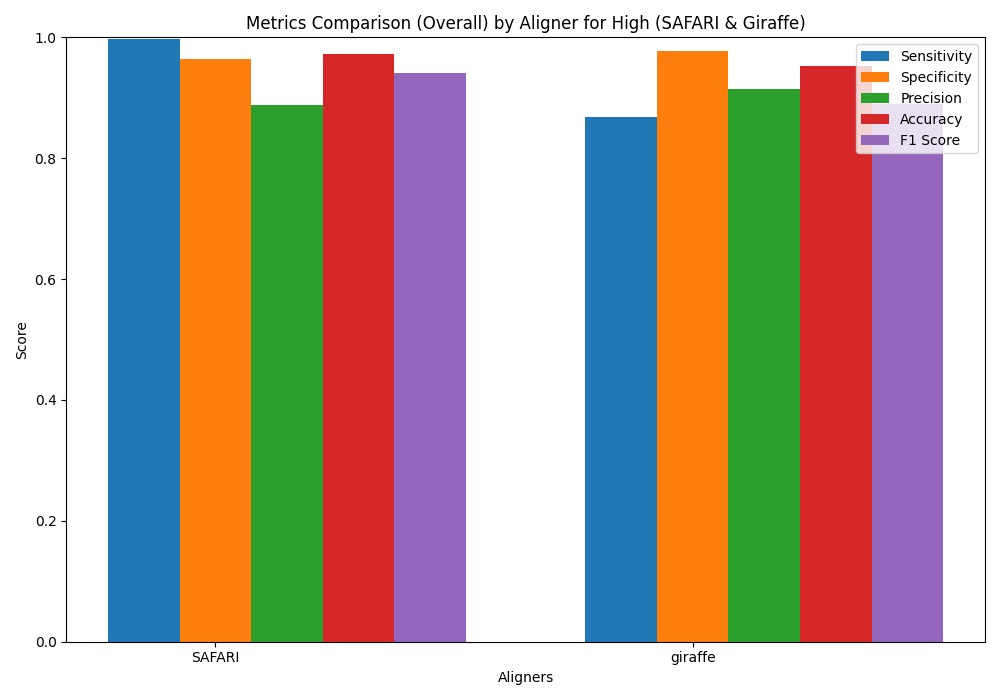
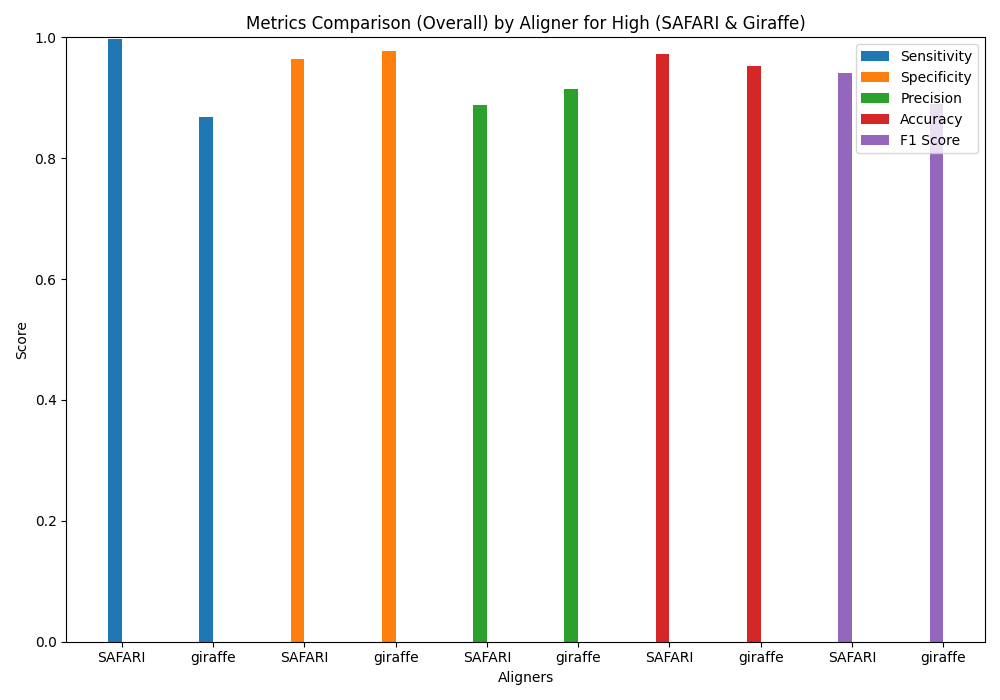
Update

diff --git a/linear_experiment/human_mito/linear_benchmark.py b/linear_experiment/human_mito/linear_benchmark.py
@@ -94,40 +94,34 @@ with open('alignment_stats.csv', 'r') as file:
                 plt.savefig(f"{damage_type}_benchmark.png")
             else:
                 plt.savefig(f"{damage_type}_benchmark_mq30.png")
-            plt.show()
+
 
         # Separate plot for safari and giraffe at high damage
         if damage_type == "High":
-            for metric_type, suffix in [("Overall", ""), ("MQ > 30", "_MQ30")]:
-                data_to_plot = {metric: [] for metric in metrics}
-                special_aligners = ['SAFARI', 'giraffe']
-                
+            data_to_plot = {metric: [] for metric in metrics}
+            special_aligners = ['SAFARI', 'giraffe']
+            
+            for metric in metrics:
                 for aligner in special_aligners:
-                    results = calculate_metrics(summary[damage_type][aligner]["TP" + suffix], summary[damage_type][aligner]["FP" + suffix], summary[damage_type][aligner]["TN" + suffix], summary[damage_type][aligner]["FN" + suffix])
-                    
-                    for metric in metrics:
-                        data_to_plot[metric].append(results[metrics.index(metric)])
-                
-                x = np.arange(len(special_aligners))
-                width = 0.15
-                
-                fig, ax = plt.subplots(figsize=(10, 7))
-                
-                for idx, metric in enumerate(metrics):
-                    ax.bar(x + idx*width, data_to_plot[metric], width, label=metric)
+                    results = calculate_metrics(summary[damage_type][aligner]["TP"], summary[damage_type][aligner]["FP"], summary[damage_type][aligner]["TN"], summary[damage_type][aligner]["FN"])
+                    data_to_plot[metric].append(results[metrics.index(metric)])
+            
+            x = np.arange(len(special_aligners) * len(metrics))
+            width = 0.15
+            
+            fig, ax = plt.subplots(figsize=(10, 7))
+            
+            for idx, metric in enumerate(metrics):
+                ax.bar(x[idx*len(special_aligners):(idx+1)*len(special_aligners)], data_to_plot[metric], width, label=metric)
 
-                ax.set_xlabel('Aligners')
-                ax.set_ylabel('Score')
-                ax.set_title(f'Metrics Comparison ({metric_type}) by Aligner for {damage_type} (SAFARI & Giraffe)')
-                ax.set_xticks(x + width)
-                ax.set_xticklabels(special_aligners)
-                ax.legend()
-                plt.ylim([0, 1])
-                plt.tight_layout()
+            ax.set_xlabel('Aligners')
+            ax.set_ylabel('Score')
+            ax.set_title(f'Metrics Comparison (Overall) by Aligner for {damage_type} (SAFARI & Giraffe)')
+            ax.set_xticks(x + width/2)
+            ax.set_xticklabels(special_aligners * len(metrics))
+            ax.legend()
+            plt.ylim([0, 1])
+            plt.tight_layout()
 
-                if metric_type == "Overall":
-                    plt.savefig(f"{damage_type}_benchmark_special.png")
-                else:
-                    plt.savefig(f"{damage_type}_benchmark_special_mq30.png")
-                plt.show()
+            plt.savefig(f"{damage_type}_benchmark_special.png")
 
